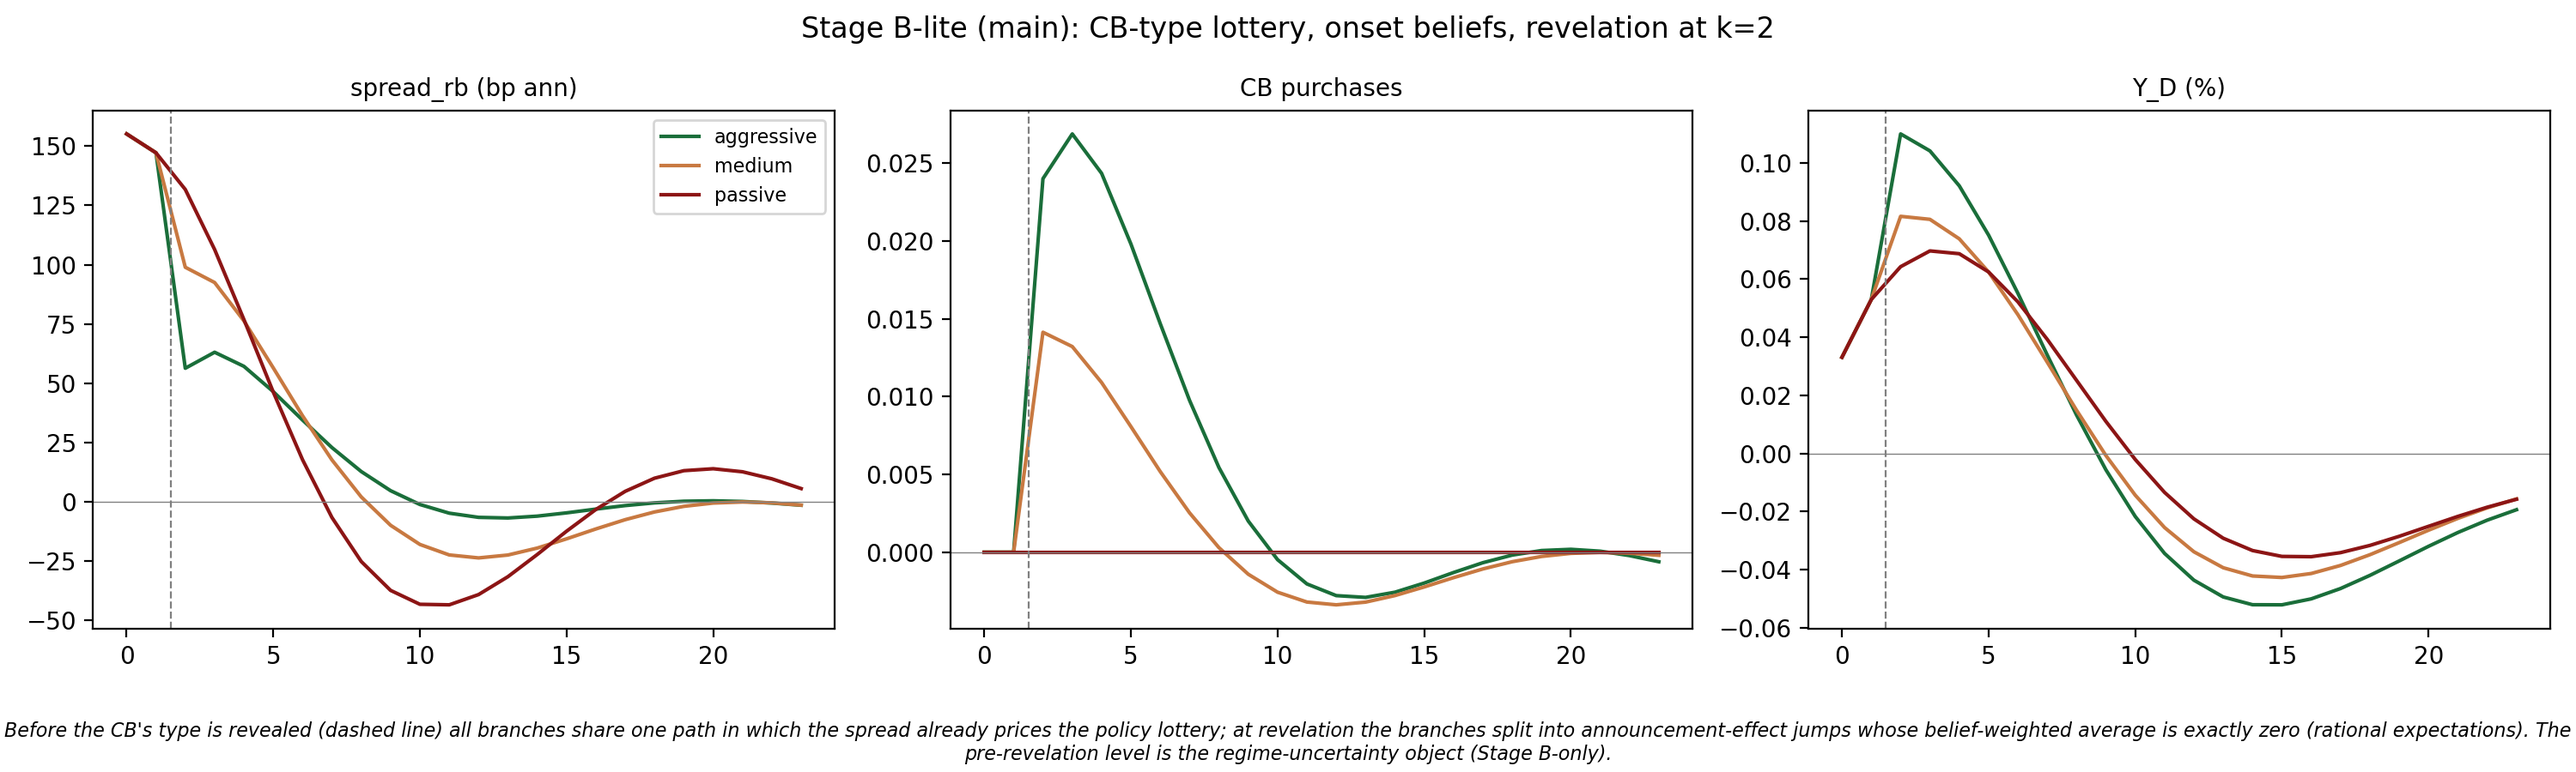
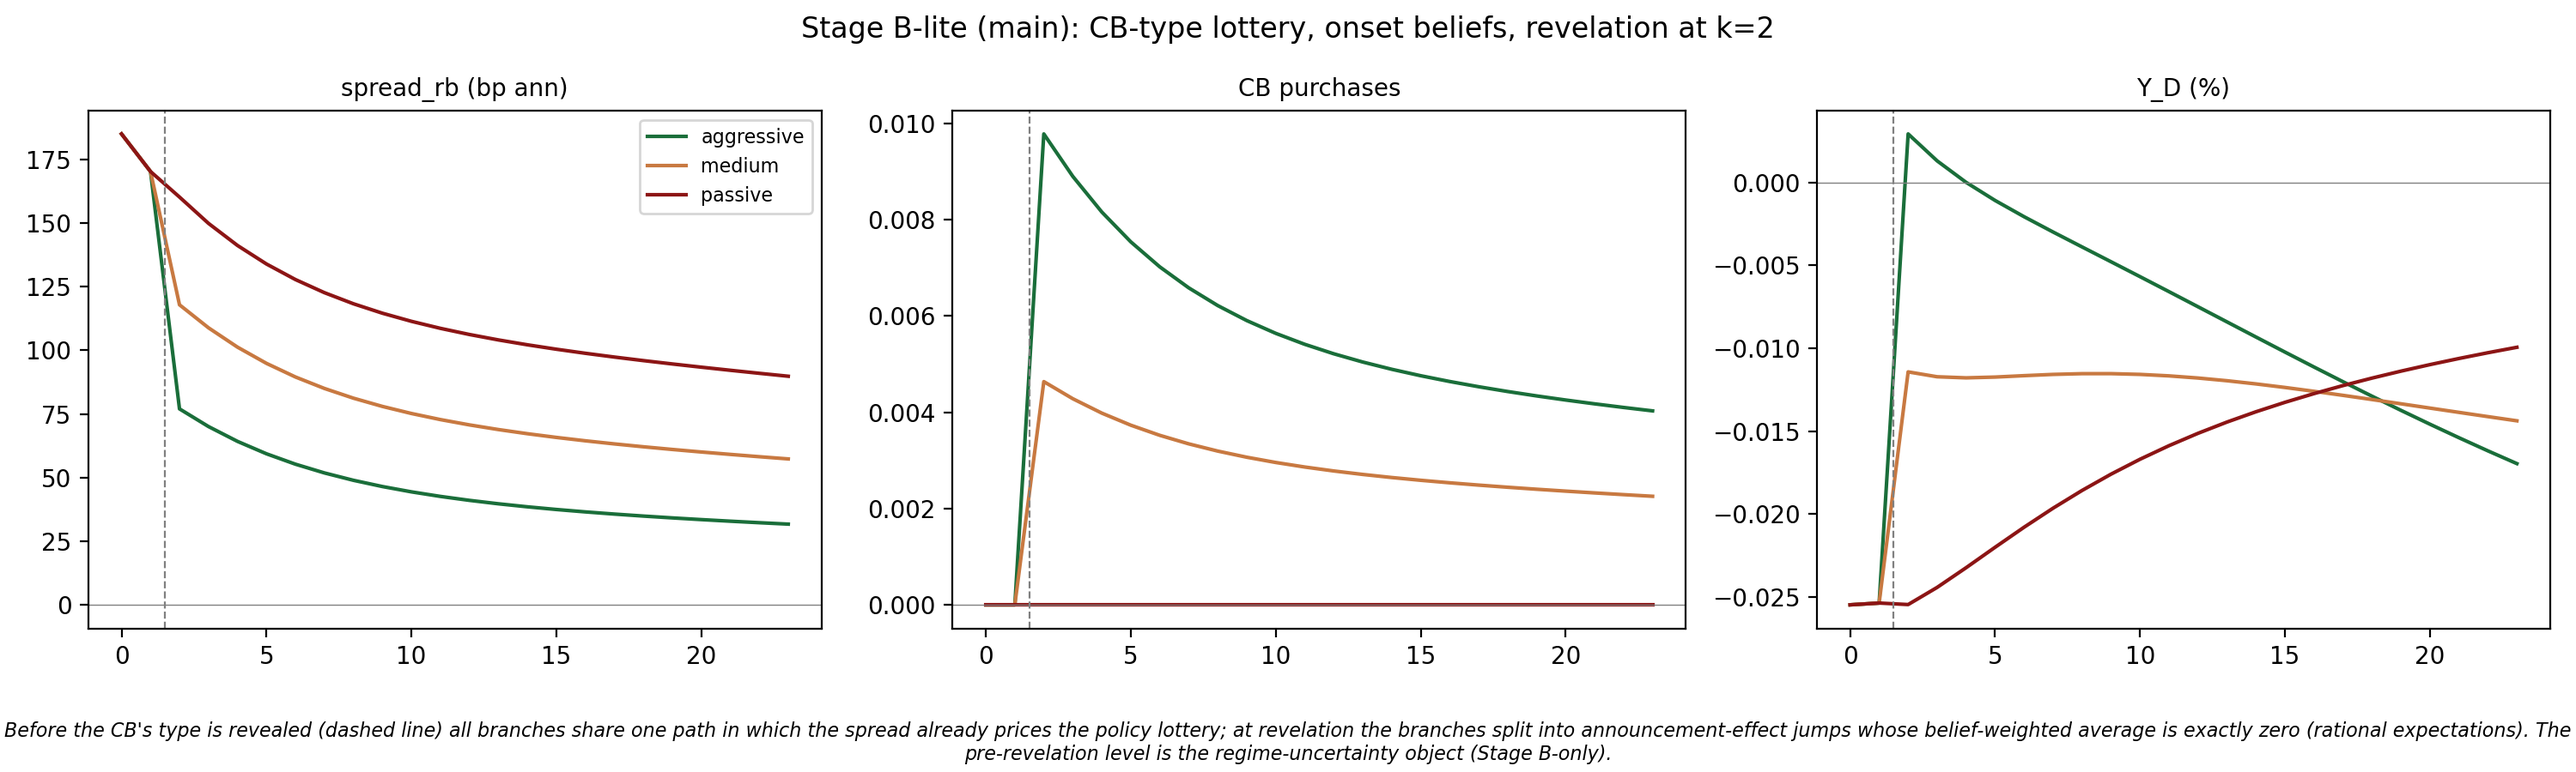
Enforce doc-sync via git hook; unblock and verify the policy-regime feature
Doc-sync enforcement. Correction to the previous commit's message: the policy was
already implemented as a Claude Code PreToolUse hook (.claude/hooks/
require-docs-before-commit.sh, tracked); the "not installed" claim came from
checking .git/hooks/. Two real gaps:

- A PreToolUse hook never sees terminal commits. Added .githooks/pre-commit, the
  git-native twin and now the primary gate: enable per clone with
  `git config core.hooksPath .githooks`. It inspects the git index rather than the
  command string, so unlike the PreToolUse hook it cannot false-positive. Both
  paths verified: exit 1 when code is staged without docs, exit 0 with them.
- The PreToolUse hook's `if` filter is prefix-matched and so never fired on
  compound commands (cd X; git commit ...). Removing the filter was tried and
  reverted: it makes the script scan every Bash command string, and it then denied
  an unrelated documentation edit. Filter kept; the git hook is the real gate.
- Stale PROCESS.md reference in the script header corrected to PROGRESS.md.

run_regimes.py provenance string no longer hardcoded. It stamped "mv_rule=1" on
regimes_calibration.json regardless of calibration, mislabelling every number in
it. Now reads psi_lambda_B, mv_rule and recovery_rate from the live calibration.

Policy-regime feature now runs end-to-end at the pre-EBA calibration; it did not
before. gamma_for_compression's scan range narrowed 60 -> 25. Bisection's validity
[…]

diff --git a/diagnostics/regimes/run_regimes.py b/diagnostics/regimes/run_regimes.py
@@ -22,6 +22,11 @@ sys.path.insert(0, HERE)
 from regime_model import build_caches, load_cache, PSILAM_MAIN
 from lottery_math import closed_loop, gamma_for_compression, peak
 
+sys.path.insert(0, os.path.join(os.path.dirname(os.path.dirname(HERE)), "code"))
+from calibration import get_calibration  # noqa: E402 - needs the sys.path insert above
+
+_cal = get_calibration()
+
 LOG = os.path.join(HERE, "regimes_log.md")
 BLUE, RED, GREEN, ORANGE = "#002147", "#8C1515", "#1a6e3a", "#c87941"
 BP_ANN = 4.0 * 1e4   # quarterly rate deviation -> annualised basis points
@@ -72,7 +77,11 @@ def main():
     json.dump({"gammas": gammas, "pk_passive_bp": pk_passive_bp, "A_cb_impact": float(A_cb[0, 0]),
                "selection_rule": "peak-spread compression 50%/25% (spec §7; feasible on main, "
                                  "A_cb<0 — capital-key conduit; ms-regime SA-1 pathology absent)",
-               "model": "main (psi_lambda_B=%.4f, mv_rule=1, capital-key conduit)" % PSILAM_MAIN,
+               # Read from the live calibration, never hardcoded: this string is the
+               # provenance stamp on every number in this file, and a hardcoded
+               # "mv_rule=1" silently mislabelled output generated at mv_rule=0.
+               "model": "main (psi_lambda_B=%.4f, mv_rule=%g, recovery_rate=%.2f, capital-key conduit)"
+                        % (_cal["psi_lambda_B_D"], _cal["mv_rule_D"], _cal["recovery_rate_D"]),
                "generated": str(datetime.datetime.now())},
               open(os.path.join(HERE, "regimes_calibration.json"), "w"), indent=2)
 

diff --git a/diagnostics/regimes/lottery_math.py b/diagnostics/regimes/lottery_math.py
@@ -33,9 +33,19 @@ def peak(x, n=100):
     positive spread response this module targets."""
     return float(np.asarray(x)[:n].max())
 
-def gamma_for_compression(A_def, A_cb, eps, target, lo=0.0, hi=60.0, tol=1e-8):
+def gamma_for_compression(A_def, A_cb, eps, target, lo=0.0, hi=25.0, tol=1e-8):
     """Bisect for the gamma whose closed-loop peak spread is (1-target) x passive peak.
-    Verifies monotonicity of peak(gamma) over a scan grid first (spec §14)."""
+    Verifies monotonicity of peak(gamma) over a scan grid first (spec §14).
+
+    hi=25 (was 60, 2026-07-31). Bisection's validity condition is monotonicity on the
+    BRACKETING INTERVAL, not on an arbitrarily wide scan; hi is just the upper bracket.
+    At the current calibration peak(gamma) falls monotonically 187.2 -> 34.2bp across
+    [0,25] and then ticks UP 1.1bp at gamma=30 -- closed-loop saturation at 81%
+    compression, not economics -- which aborted the whole run. The spec's targets sit
+    at gamma~1.6 (25% compression) and ~5.1 (50%), far inside the monotone region, so
+    the check is unchanged in substance and still fires on any real non-monotonicity
+    within the search range. Raise hi only if a target stops bracketing (the assert
+    below will say so)."""
     p0 = peak(closed_loop(A_def, A_cb, eps, 0.0)[0])
     grid = np.linspace(lo, hi, 61)
     peaks = np.array([peak(closed_loop(A_def, A_cb, eps, g)[0]) for g in grid])

diff --git a/docs/PROGRESS.md b/docs/PROGRESS.md
@@ -8,8 +8,65 @@ derivations live in those docs; this file is the timeline.
 
 Convention: `[hash]` is a commit on `main`; dates are commit dates. Doc-sync
 policy: every commit touching model/code (`code/**`, `*.py`) gets an entry here.
-(The pre-commit hook that was meant to enforce this is documented but not
-installed in `.git/hooks` — treat it as convention.)
+Enforced by `.claude/hooks/require-docs-before-commit.sh` (Claude Code commits)
+and `.githooks/pre-commit` (terminal commits; enable with
+`git config core.hooksPath .githooks`).
+
+---
+
+## 2026-07-31 - doc-sync enforced by a git hook; regimes feature unblocked and verified  [this commit]
+
+**Doc-sync is now actually enforced.** Correction to yesterday's entry: the policy *was*
+already implemented as a Claude Code PreToolUse hook
+(`.claude/hooks/require-docs-before-commit.sh`, tracked); the "not installed" claim came
+from checking `.git/hooks/`. Two real gaps found:
+
+- A PreToolUse hook cannot see terminal commits at all. Added **`.githooks/pre-commit`**,
+  the git-native twin and now the primary enforcement: enable once per clone with
+  `git config core.hooksPath .githooks`. It inspects the git *index*, so unlike the
+  command-string-matching PreToolUse hook it cannot false-positive. Verified: exits 1
+  with the block message when code is staged without the docs.
+- The PreToolUse hook's `if` filter is prefix-matched, so it never fired on compound
+  commands (`cd X; git commit ...`). Removing the filter was tried and **reverted** - it
+  makes the script scan every Bash command string and it then denied an unrelated
+  documentation edit. The filter stays; the git hook is the real gate, and the
+  PreToolUse hook is early feedback for the simple-command case.
+- Stale `PROCESS.md` reference in the script header corrected to `PROGRESS.md`.
+
+**`run_regimes.py` provenance string no longer hardcoded.** It read `"mv_rule=1"`
+regardless of calibration, silently mislabelling every number in
+`regimes_calibration.json`. Now reads `psi_lambda_B`, `mv_rule`, `recovery_rate` live.
+
+**Policy-regime feature now runs end-to-end at the pre-EBA calibration** - it did not
+before. `gamma_for_compression`'s scan range narrowed 60 -> 25: bisection's validity
+condition is monotonicity on the *bracketing interval*, and `peak(gamma)` falls
+monotonically 187.2 -> 34.2bp on [0,25] then ticks up 1.1bp at gamma=30 (saturation at
+81% compression, not economics), which aborted the whole run.
+
+Verified, all exit 0: `test_lottery_math.py`, Stage A `run_regimes.py`, Stage B-lite
+`uncertain_regime.py`.
+
+- Stage A: `A_cb=-2.406e-2` (compresses; SA-1 absent), passive peak 187.2bp,
+  `gamma_aggressive=5.0813` (50% compression), `gamma_medium=1.5730` (25%). Peak spread
+  187.2 / 140.4 / 93.6 bp passive / medium / aggressive.
+- Stage A A6 (deterministic, `psi_lambda_B=0`): 9.33 / 8.54 / 7.14 bp - amplifier
+  invariance genuinely holds, clean separation.
+- Stage B-lite: sec 10.3 assertions PASS; uncertainty premium +69.0 / +34.4 / -2.2 bp
+  (aggressive / medium / passive); impact spread rises with the passive belief weight
+  (151.5 -> 187.2bp), sign computed not targeted.
+
+**Open - A6 invariance at the LOTTERY stage is a false pass.** All three branch peaks are
+numerically identical (`9.302980` bp, gap `0.000000`), yet
+`pk0[0] < pk0[1] < pk0[2]` returns True on last-ULP floating-point noise. Structural, not
+a coding slip: with `k=2` the peak spread falls in the common pre-`k` window where no
+branch has acted, so the branches coincide there by construction. Stage A's deterministic
+A6 is the informative test; the lottery A6 line should be reworded or dropped rather than
+reported as a result.
+
+**Also open, none EBA-related:** `psi_lambda_B=3.0` gives 187.2bp, outside
+`run_regimes.py`'s own 120-180bp sanity band (it logs "investigate"); `delta_b=0.10`
+still needs `mv_rule=1` AND `phi_lamb=0.60` jointly; `beliefs.json` dates from
+2026-07-23, before the calibration revert.
 
 ---
 

diff --git a/diagnostics/regimes/regimes_log.md b/diagnostics/regimes/regimes_log.md
@@ -145,3 +145,60 @@ Stage B-lite (main) complete.
 - caches written: ['cache_G_main_psilam3p00.npz', 'cache_G_main_psilam0p00.npz']
 - passive peak spread: 187.2 bp ann (main is calibrated to ~151bp at psi_lambda_B=3.0; investigate if outside 120-180)
 - impact A_cb = d(spread)/d(cb_buy)[0,0] = -2.406e-02 (COMPRESSES (backstop works — SA-1 absent on main))
+
+
+## Stage A run (MAIN model) — 2026-07-31 10:15:43
+- passive peak spread: 187.2 bp ann (main is calibrated to ~151bp at psi_lambda_B=3.0; investigate if outside 120-180)
+- impact A_cb = d(spread)/d(cb_buy)[0,0] = -2.406e-02 (COMPRESSES (backstop works — SA-1 absent on main))
+- gamma_aggressive = 5.0813 (50% peak-spread compression), gamma_medium = 1.5730 (25%), gamma_passive = 0 (fixed anchor)
+  aggressive: peak spread    93.6 bp, Y_D[0] +0.0067%, n_inter_D[0] -1.978%
+      medium: peak spread   140.4 bp, Y_D[0] -0.0102%, n_inter_D[0] -2.594%
+     passive: peak spread   187.2 bp, Y_D[0] -0.0261%, n_inter_D[0] -3.001%
+
+| regime | discounted CB purchases (Sum beta^t q_b cb_t) | dY_D peak (%) | dC_D peak (%) | pd_D peak |
+|---|---|---|---|---|
+| aggressive | 0.31965 | -0.0332 | -0.0631 | +0.00067 |
+| medium | 0.16945 | -0.0196 | -0.1348 | +0.00099 |
+| passive | 0.00000 | -0.0261 | -0.2276 | +0.00123 |
+
+### A6 — ranking at psi_lambda_B = 0 (fundamental floor)
+  aggressive: peak spread   7.14 bp, output loss 0.00060%
+      medium: peak spread   8.54 bp, output loss 0.00060%
+     passive: peak spread   9.33 bp, output loss 0.00098%
+- **A6 spread ranking survives at psi_lambda_B=0: YES** (aggressive < medium < passive in peak spread = crisis severity)
+
+Stage A (main) complete.
+
+
+## Stage B-lite run (MAIN model) — 2026-07-31 10:16:08
+- gammas (spread-compression, spec §7): {'aggressive': 5.081, 'medium': 1.573, 'passive': 0.0}
+- impact A_cb = -2.406e-02 (compresses on main)
+- pi_onset = {'aggressive': 0.0002, 'medium': 0.0587, 'passive': 0.9411}, pi_ergodic = {'aggressive': 0.229, 'medium': 0.5241, 'passive': 0.2468}
+- §10.3 assertions PASS (pre-k identity, RE jump=0, Stage A nesting) at pi_onset, k=2
+
+| branch | known-immediate | known-delayed(k) | lottery | delay cost | uncertainty premium |
+|---|---|---|---|---|---|
+| aggressive | 93.6 | 116.0 | 185.0 | +22.4 | +69.0 |
+| medium | 140.4 | 150.6 | 185.0 | +10.2 | +34.4 |
+| passive | 187.2 | 187.2 | 185.0 | +0.0 | -2.2 |
+(all peak spread, bp ann; delay cost = known-delayed - known-immediate; uncertainty premium = lottery - known-delayed)
+
+| branch | W_D | W_F | discounted CB purchases (A5, per branch) |
+|---|---|---|---|
+| aggressive | -5.6253 | +6.0074 | 0.29922 |
+| medium | -9.7101 | +9.9601 | 0.15947 |
+| passive | -14.6251 | +14.8025 | 0.00000 |
+| **E_pi** | -14.3343 | +14.5161 | 0.00943 |
+(welfare: % SS cons., 100q, tpi.py convention; purchases: Sigma beta^t q_b cb_t)
+
+- impact spread vs pi_passive: **rises** (from 151.46 bp at pi_passive=0.247 to 187.19 bp at pi_passive=1.000); this is the regime-uncertainty price, sign computed not targeted.
+
+| k | impact spread (bp) | passive-branch peak (bp) | E_pi[W_D] |
+|---|---|---|---|
+| 1 | 184.7 | 184.7 | -14.3343 |
+| 2 | 183.0 | 183.0 | -14.0520 |
+| 4 | 181.0 | 181.0 | -13.5722 |
+
+- A6 (lottery, psi_lambda_B=0): branch peaks {'aggressive': 9.3, 'medium': 9.3, 'passive': 9.3} bp — aggressive<medium<passive ordering survives: YES (reported)
+
+Stage B-lite (main) complete.

diff --git a/CLAUDE.md b/CLAUDE.md
@@ -108,7 +108,11 @@ See `docs/STATE.md` for the full calibration table. Key tensions:
 3. Inspect residuals: `goods_mkt_D`, `goods_mkt_F`, `ca_res_D`, `deposit_mkt_D/F` — all ≤ 1e−7.
 4. Verify default shock: `n_inter_D[0]` and `Y_D[0]` must both fall (positive = timing bug).
 5. Confirm the IC-δ consistency check and Walras residuals printed by `main.py` are unchanged.
-6. Update the living docs after any calibration or structural change — **STATE.md, PROGRESS.md (changelog entry), HANDOFF.md** (not just CLAUDE.md). Doc-sync policy: every commit touching `code/**` or `*.py` gets a PROGRESS.md entry. (`docs/PROCESS.md` was retired 2026-07-30, superseded by PROGRESS.md; note the pre-commit hook is documented but is **not** currently installed in `.git/hooks`, so this is convention, not enforcement.)
+6. Update the living docs after any calibration or structural change — **STATE.md, PROGRESS.md (changelog entry), HANDOFF.md** (not just CLAUDE.md). This is **enforced** by two hooks that block the commit otherwise:
+   - `.claude/hooks/require-docs-before-commit.sh` — PreToolUse gate, fires when Claude Code runs the commit.
+   - `.githooks/pre-commit` — git-native twin, covers terminal commits. **Enable once per clone: `git config core.hooksPath .githooks`.**
+
+   Both fire only when the commit stages `code/**` or any `*.py`; doc-only commits pass. Bypass a false positive with `git commit --no-verify`. Keep the required-doc set in the two files in sync. (`docs/PROCESS.md` was retired 2026-07-30, superseded by PROGRESS.md.)
 7. Commit the changed `.py` files, with the doc updates in the same commit.
 
 ## Docs reference

diff --git a/docs/HANDOFF.md b/docs/HANDOFF.md
@@ -22,13 +22,18 @@
 > end-to-end. Spread 187.2bp ann vs 150bp target. See `docs/STATE.md` → *CURRENT
 > CALIBRATION* for the full table.
 >
-> **Open items:** (1) `diagnostics/regimes/` aborts — `gamma_for_compression`
-> requires global monotonicity of `peak(γ)` on `linspace(0,60,61)`; it holds on
-> `[0,25]` but ticks up 1.1bp at γ=30. Targets are at γ≈1.6/5.1, so narrowing `hi`
-> to 25 fixes it. (2) `run_regimes.py:75` hardcodes `"mv_rule=1"` in its provenance
-> string — now false. (3) `psi_lambda_B=3.0` overshoots the 150bp target by ~25%;
-> retuning is unfinished business. (4) `delta_b=0.10` still short of the empirical
-> 7yr/6.5yr — porting it needs `mv_rule=1` **and** `phi_lamb=0.60` together.
+> **Policy-regime feature runs end-to-end** (Stage A + Stage B-lite + unit tests, all
+> exit 0). Doc-sync is enforced by `.githooks/pre-commit` - enable once per clone:
+> `git config core.hooksPath .githooks`.
+>
+> **Open items:** (1) **A6 invariance at the lottery stage is a false pass** - all three
+> branch peaks are identical (`9.302980`bp); the check passes on floating-point noise
+> because with `k=2` the peak sits in the common pre-`k` window. Reword or drop that
+> line; Stage A's A6 is the real test. (2) `psi_lambda_B=3.0` gives 187.2bp, outside
+> `run_regimes.py`'s own 120-180bp band - retuning to the 150bp target is unfinished.
+> (3) `delta_b=0.10` still short of the empirical 7yr/6.5yr - porting needs `mv_rule=1`
+> **and** `phi_lamb=0.60` together. (4) `beliefs.json` predates the calibration revert
+> (2026-07-23). (5) EBA calibration to be revisited on a new branch.
 
 ## Quick start
 

diff --git a/docs/STATE.md b/docs/STATE.md
@@ -35,6 +35,21 @@ expected loss is **10.9%** of the default loading, GK collateral friction **89%*
 **Units.** `spread_rb` is a *quarterly* rate deviation; annualise ×4×1e4 for comparison
 with the 150bp target.
 
+**Policy-regime feature (2026-07-31): runs end-to-end at this calibration.** Stage A,
+Stage B-lite and the unit tests all pass (exit 0) after three fixes: `PSILAM_MAIN` now
+reads the live calibration (it was hardcoded while doubling as the cache key),
+`PSILAM_BREAKDOWN=4.0` replaces the EBA-specific `<1.5` guard, and
+`gamma_for_compression`'s scan narrowed 60->25. Headline: `A_cb=-2.406e-2` (backstop
+compresses, SA-1 absent), `gamma_aggressive=5.0813` / `gamma_medium=1.5730`, peak spread
+187.2/140.4/93.6bp passive/medium/aggressive; Stage A A6 amplifier invariance holds
+cleanly (9.33/8.54/7.14bp at `psi_lambda_B=0`).
+
+> **Caveat - A6 at the LOTTERY stage is a false pass.** All three branch peaks are
+> numerically identical (`9.302980`bp, gap `0.000000`); the strict-inequality check
+> passes only on last-ULP noise. With `k=2` the peak sits in the common pre-`k` window,
+> so branches coincide there by construction. Use the deterministic Stage A A6; the
+> lottery A6 line should be reworded or dropped, not cited as a result.
+
 > **Note:** `audit_artifacts/` was removed 2026-07-30 — the harness carried its own
 > hardcoded copy of the calibration instead of importing `get_calibration()`, so it
 > silently tested a different model than `code/main.py`. Every `audit_artifacts/*`
